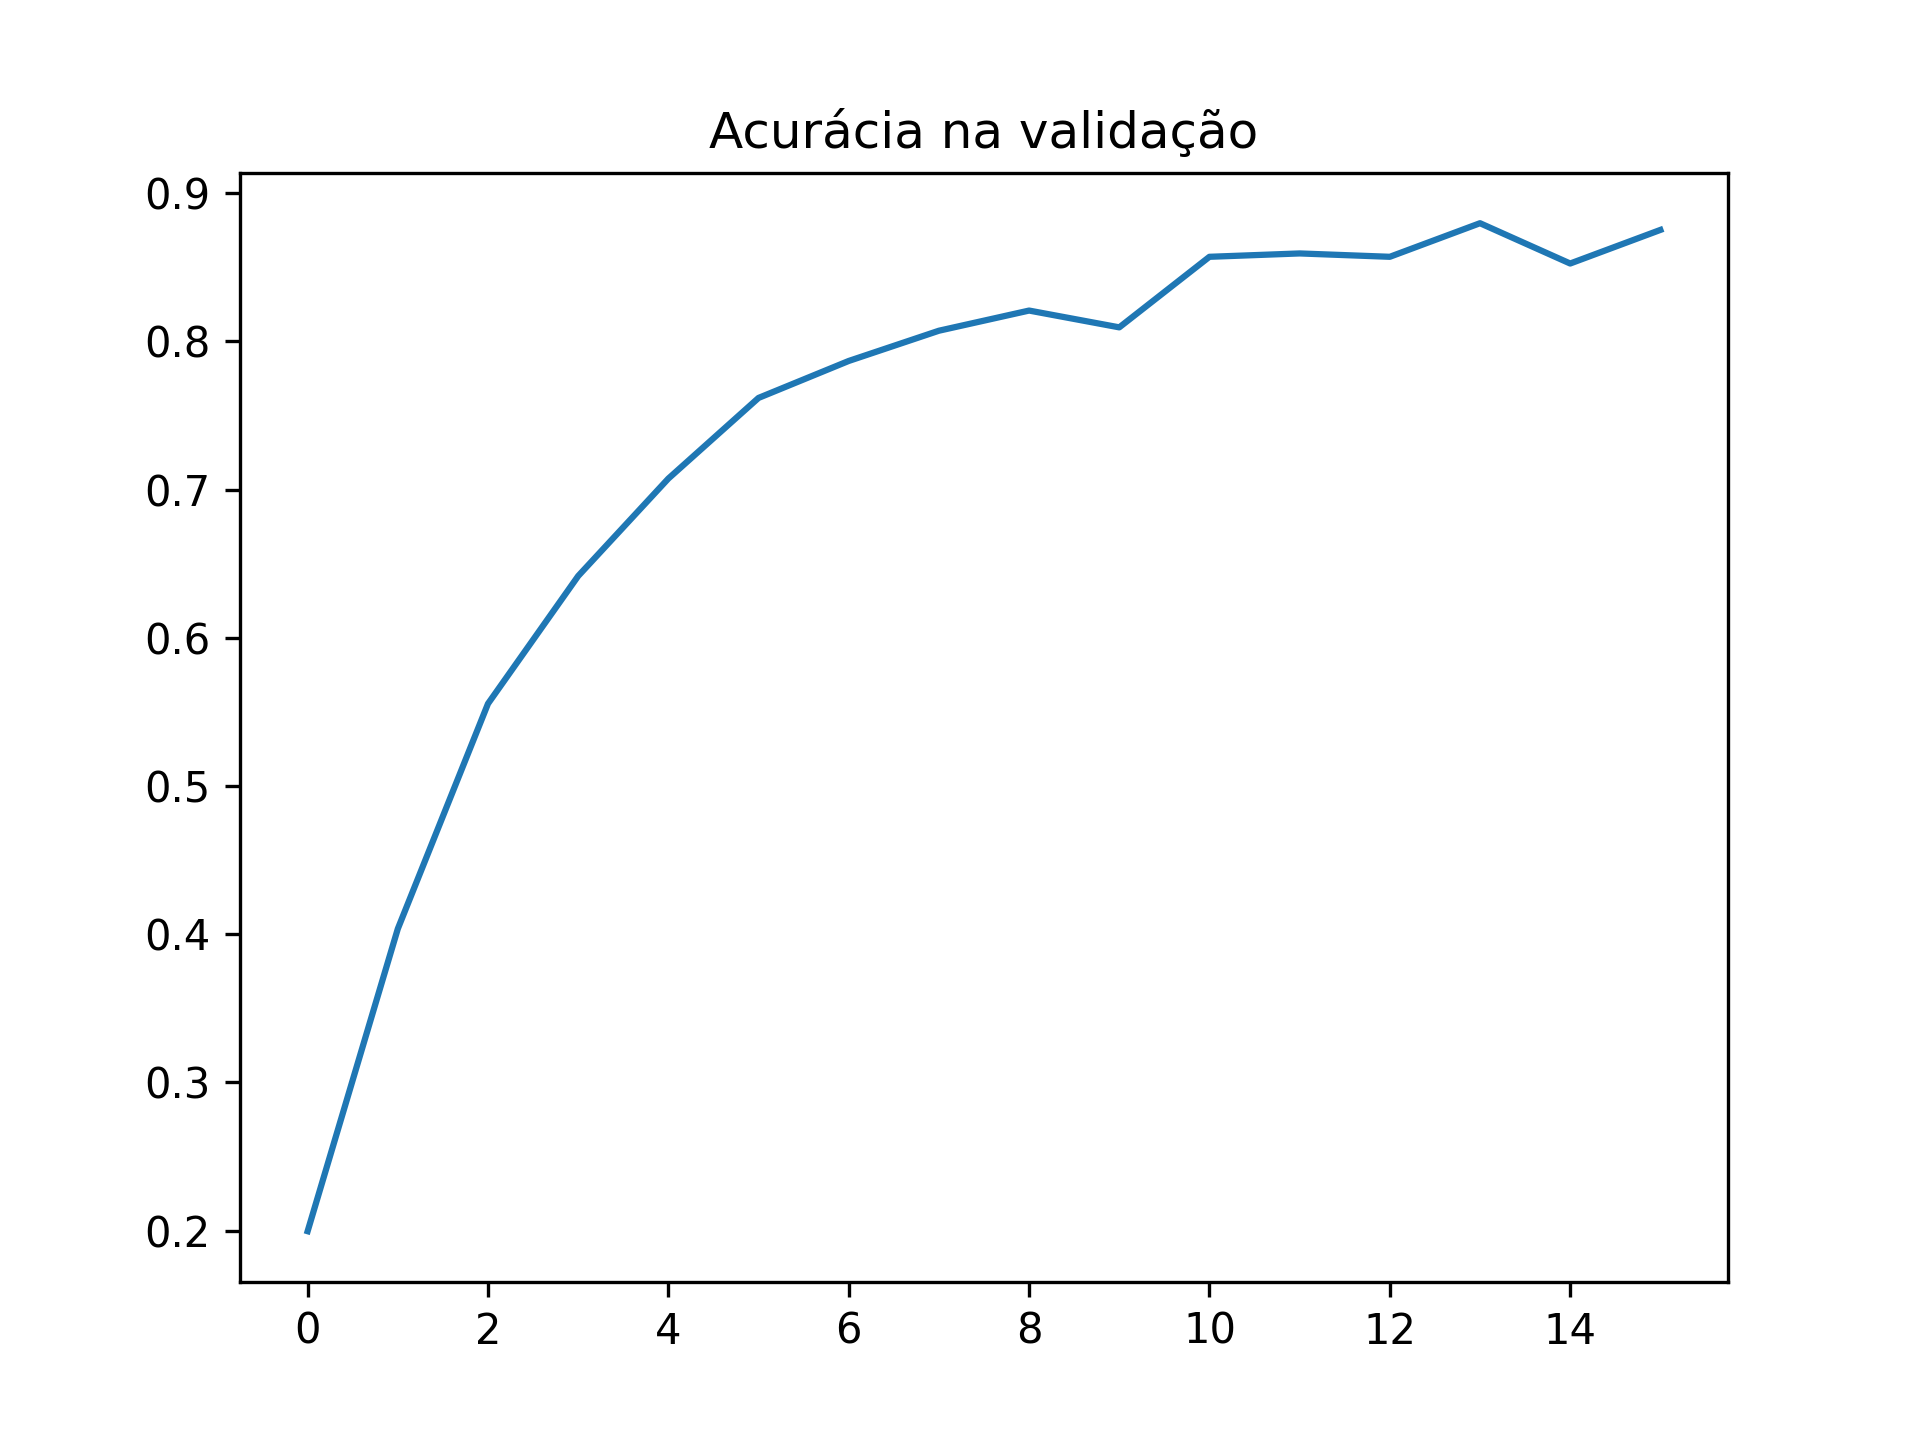
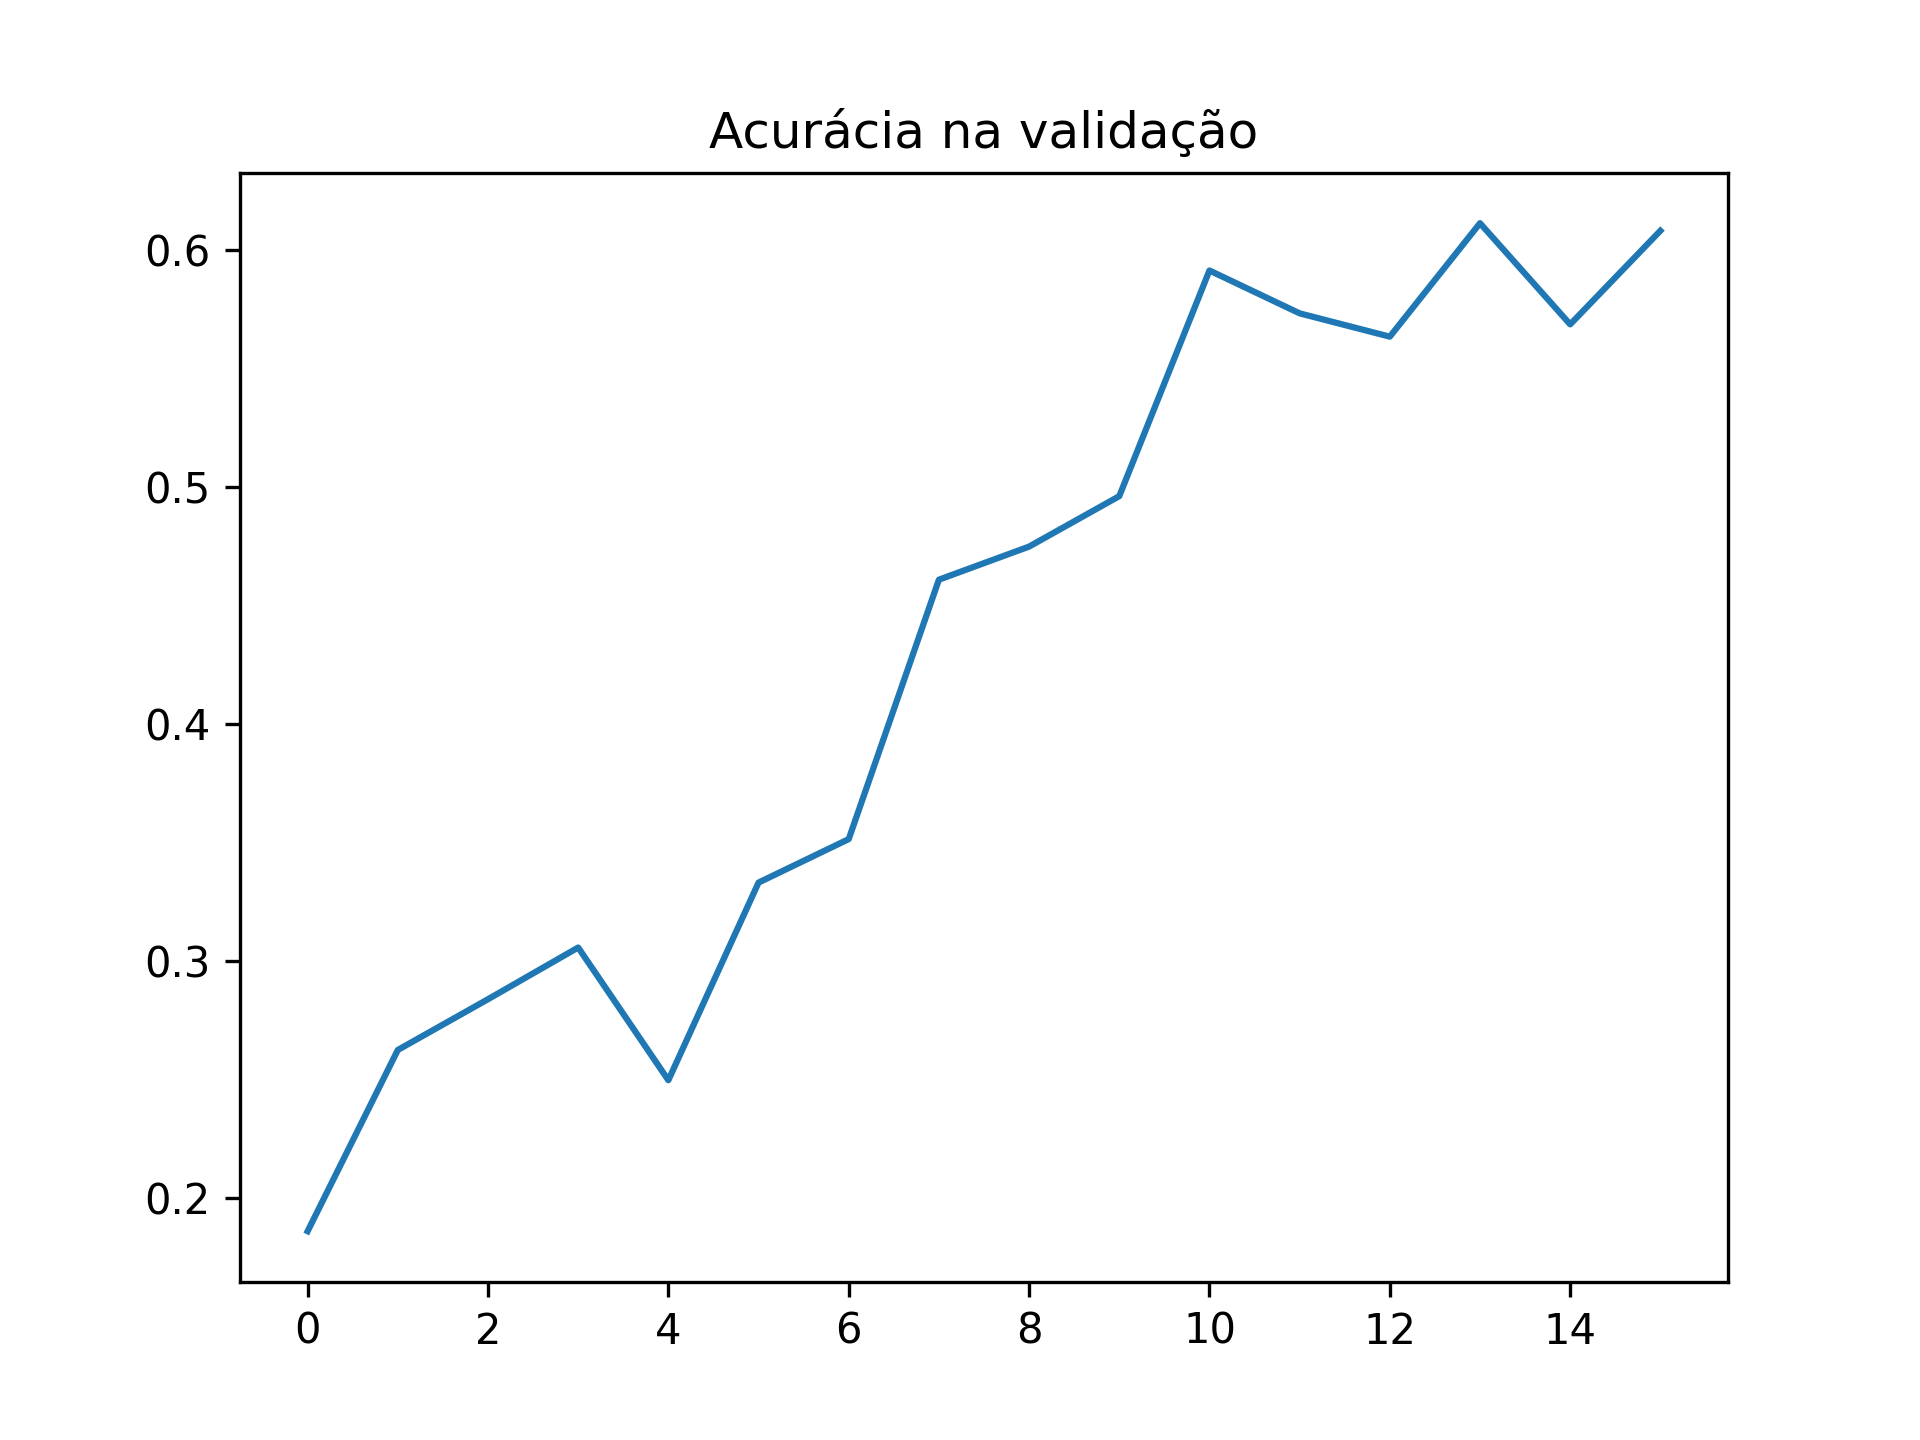
teste de treino com um dataset maior

diff --git a/mainDigit.py b/mainDigit.py
@@ -14,12 +14,13 @@ from tqdm import tqdm
 
 def main():
 
-    datasetPath = "/media/vitor/data/CNN_letters_custom"
+    # datasetPath = "/media/vitor/data/CNN_letters_custom"
+    datasetPath = "/media/vitor/data/CNN_letters_digit_merge"
 
-    if os.path.exists("/media/vitor/data/CNN_letters_custom"):
-        datasetPath = "/media/vitor/data/CNN_letters_custom"
-    else:
-        datasetPath = "/media/vitor/data/CNN_letters_custom"
+    # if os.path.exists("/media/vitor/data/CNN_letters_custom"):
+    #     datasetPath = "/media/vitor/data/CNN_letters_custom"
+    # else:
+    #     datasetPath = "/media/vitor/data/CNN_letters_custom"
 
     parser = argparse.ArgumentParser()
     parser.add_argument("--epocas", default=16, required=False, type=int)
